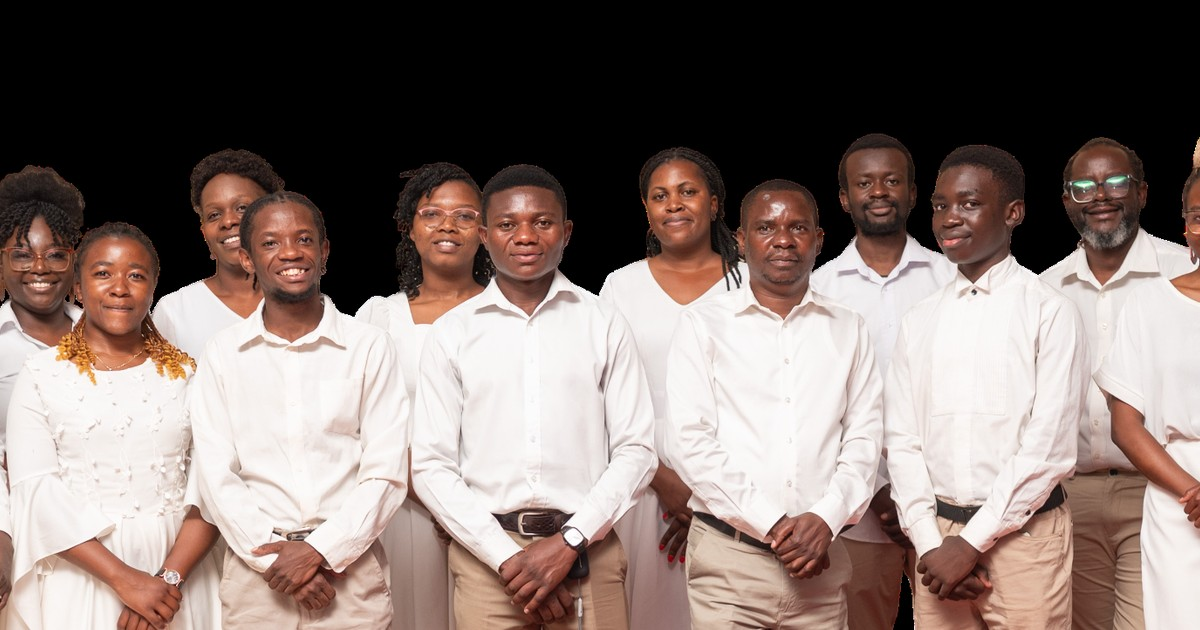
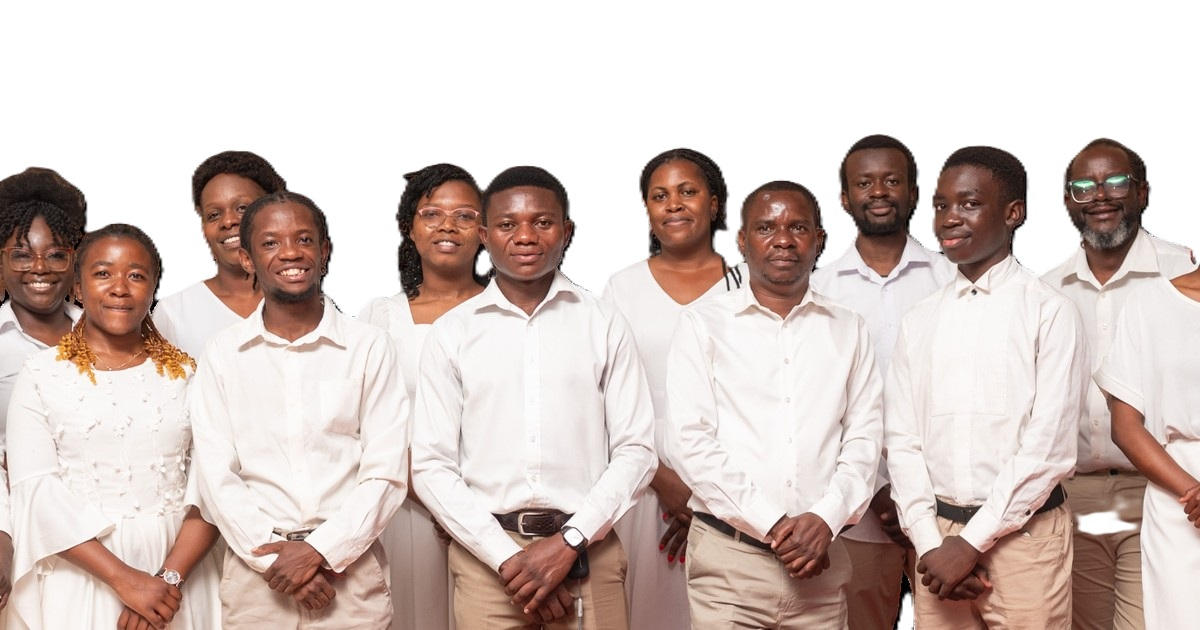
og image background

diff --git a/src/app.css b/src/app.css
@@ -150,7 +150,7 @@
   }
 
   .worship-banner h2 {
-    font-size: clamp(3rem, 8vw, 5.5rem);
+    font-size: clamp(3.8rem, 10vw, 7.5rem);
     font-weight: 900;
     color: white;
     letter-spacing: 6px;
@@ -159,22 +159,22 @@
   }
 
   .night-text {
-    font-size: clamp(5rem, 14vw, 10rem);
+    font-size: clamp(6.5rem, 18vw, 13rem);
     font-weight: 900;
     color: var(--dark);
-    line-height: 0.95;
-    margin-top: -10px;
+    line-height: 0.9;
+    margin-top: -8px;
     letter-spacing: -3px;
     animation: fadeUp 1s ease-out 0.3s both;
   }
 
   .live-recording {
-    font-size: 1rem;
+    font-size: clamp(1rem, 2.5vw, 1.35rem);
     letter-spacing: 8px;
     text-transform: uppercase;
     color: var(--dark);
-    font-weight: 600;
-    margin-top: 5px;
+    font-weight: 700;
+    margin-top: 8px;
     animation: fadeUp 1s ease-out 0.5s both;
   }
 
